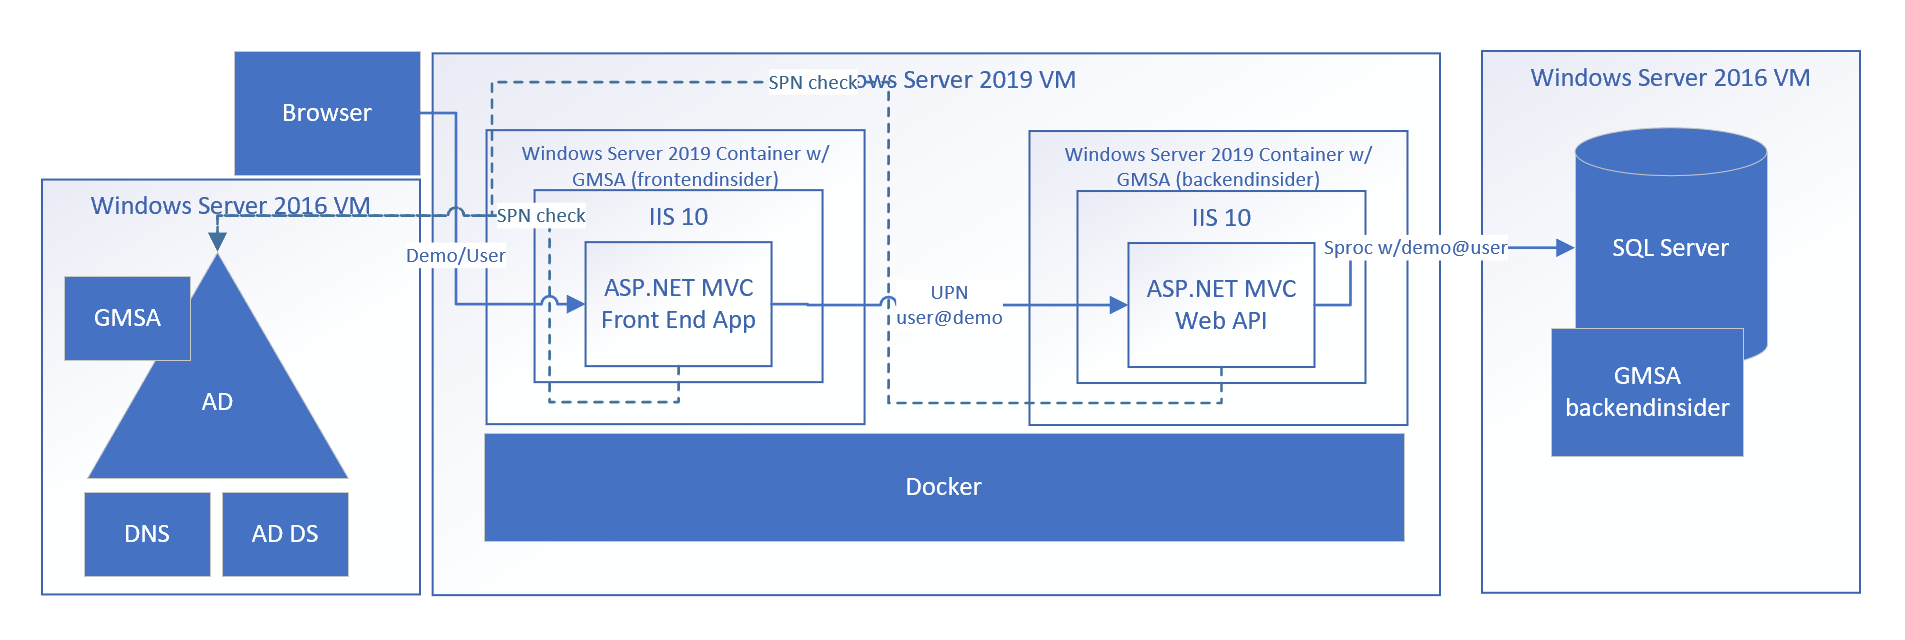
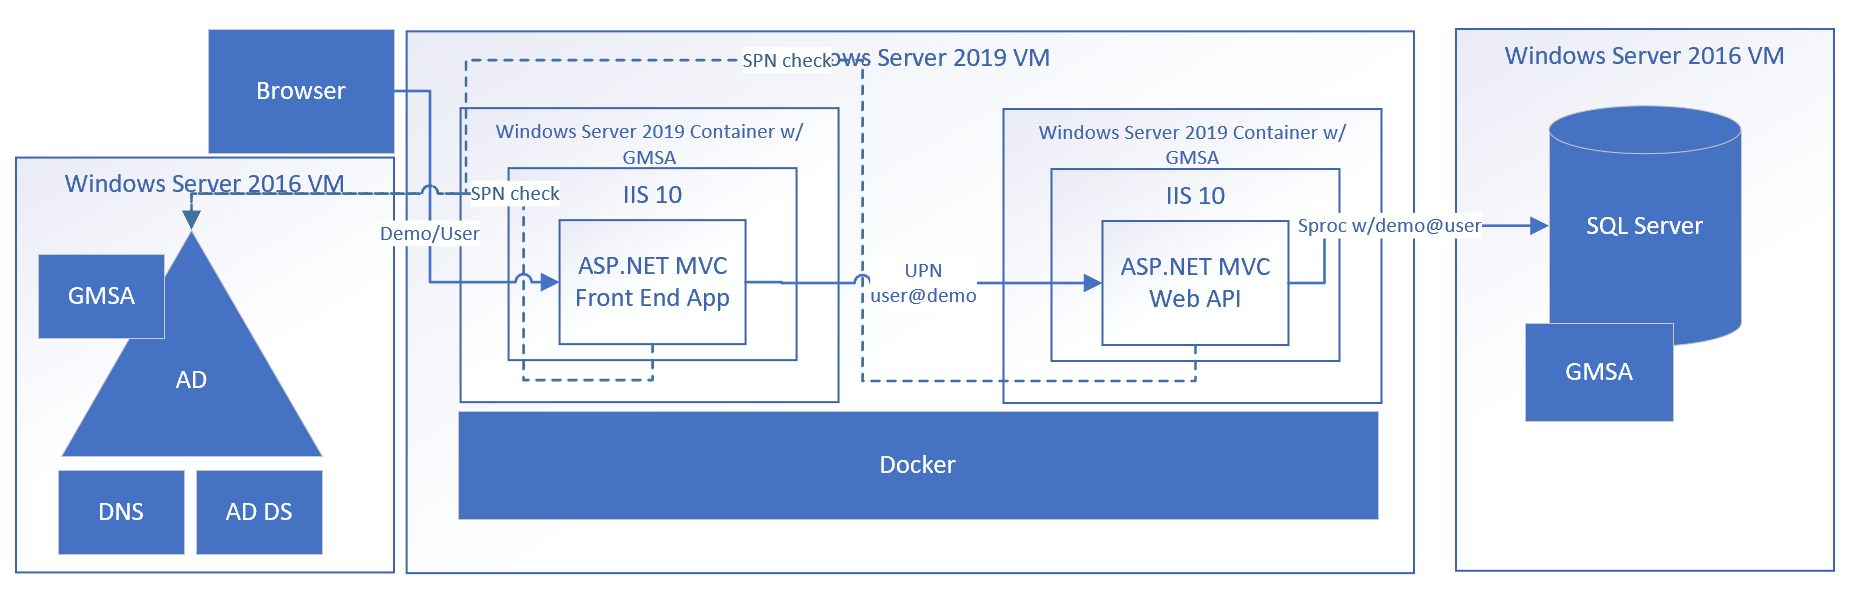
wip iis insider

diff --git a/auth-examples/Scenarios-Read-Me/README-IIS.md b/auth-examples/Scenarios-Read-Me/README-IIS.md
@@ -1,7 +1,7 @@
 ## IIS Lift and Shift
 We'd like to put together an IIS web site and host it in a Windows Container.
 
-The frontend will send a request to the backend API.  The Backend API will then query SQL using the credentials passed to it from the frontend + UPN from the user in the request from the browser.
+The frontend will send a request to the backend API.  The Backend API will then query SQL using the credentials passed to it from the frontend + UPN from the user in the request from the browser.  The frontend and backend will use separate gMSA accounts.  Also, the frontend gMSA account will be allowed to delegate to the backend gMSA account.
 
 ![Scenario](../../media/iis/scenario.png)
 
@@ -88,14 +88,15 @@ This one should have some print out that shows computer name of the gmsa account
 net config workstation
 ```
 
-# Advanced Debugging 
-Kerberos debugging - kerberos ticket check
+Refer to the [gMSA creation script](../../AD/create-gmsa/gmsacreation.ps1)
 
-```powershell
-klist
+We'll also want to verify the properties are set correctly.
+
+```
+get-adserviceaccount -identity MSMQSend -properties 'PrincipalsAllowedToDelegateToAccount','PrincipalsAllowedToRetrieveManagedPassword','kerberosEncryptionType','ServicePrincipalName','msDS-AllowedToDelegateTo','userAccountControl','PrincipalsAllowedToDelegateToAccount'
 ```
 
-should return success message
+![gMSA Properties](../../media/iis/confirm-gmsa.png)
 
 # Remote Debugging
 Remote debug by installing VS debugger in the container. [Remote Debugging](.\README-Remote-Debugging.md)

diff --git a/AD/create-gmsa/README.md b/AD/create-gmsa/README.md
@@ -56,7 +56,7 @@ Get-CredentialSpec
 
 #### Examine gMSA account properties
 ```
-get-adserviceaccount -identity MSMQSend -properties 'PrincipalsAllowedToRetrieveManagedPassword','kerberosEncryptionType','ServicePrincipalName','msDS-AllowedToDelegateTo','userAccountControl'
+get-adserviceaccount -identity MSMQSend -properties 'PrincipalsAllowedToDelegateToAccount','PrincipalsAllowedToRetrieveManagedPassword','kerberosEncryptionType','ServicePrincipalName','msDS-AllowedToDelegateTo','userAccountControl','PrincipalsAllowedToDelegateToAccount'
 ```
 
 #### General Testing and Troubleshoot for a GMSA Account
